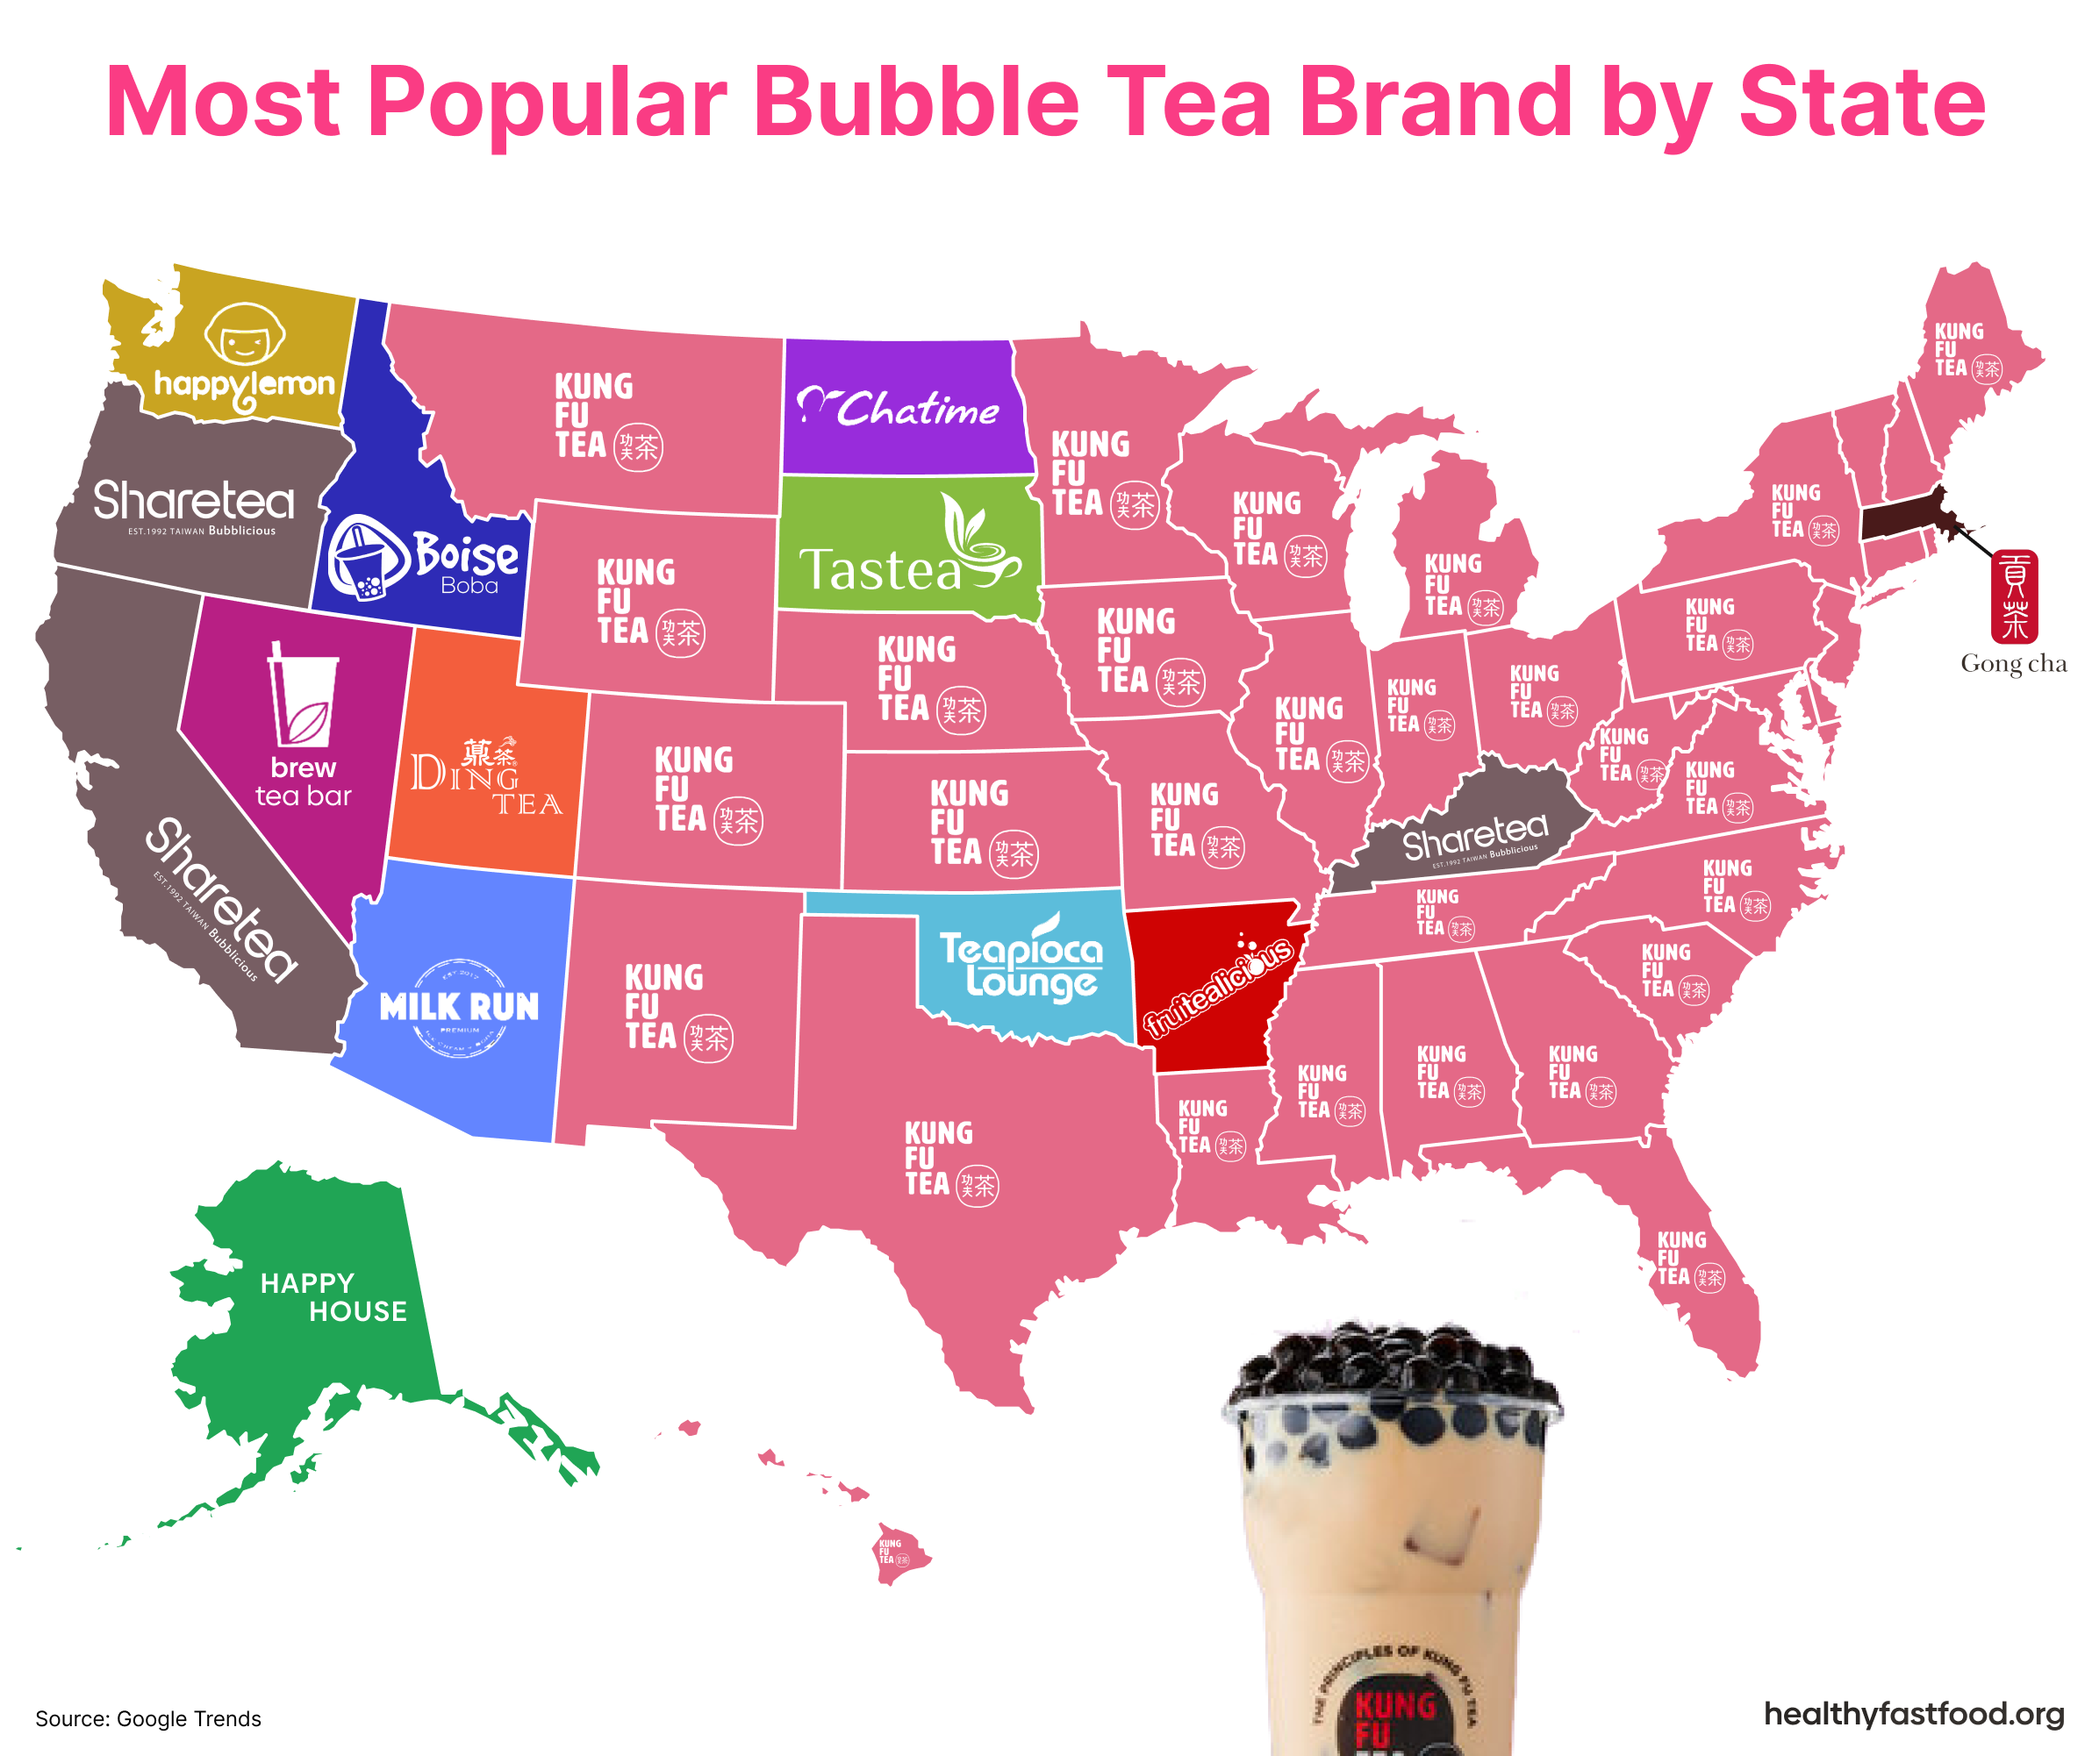
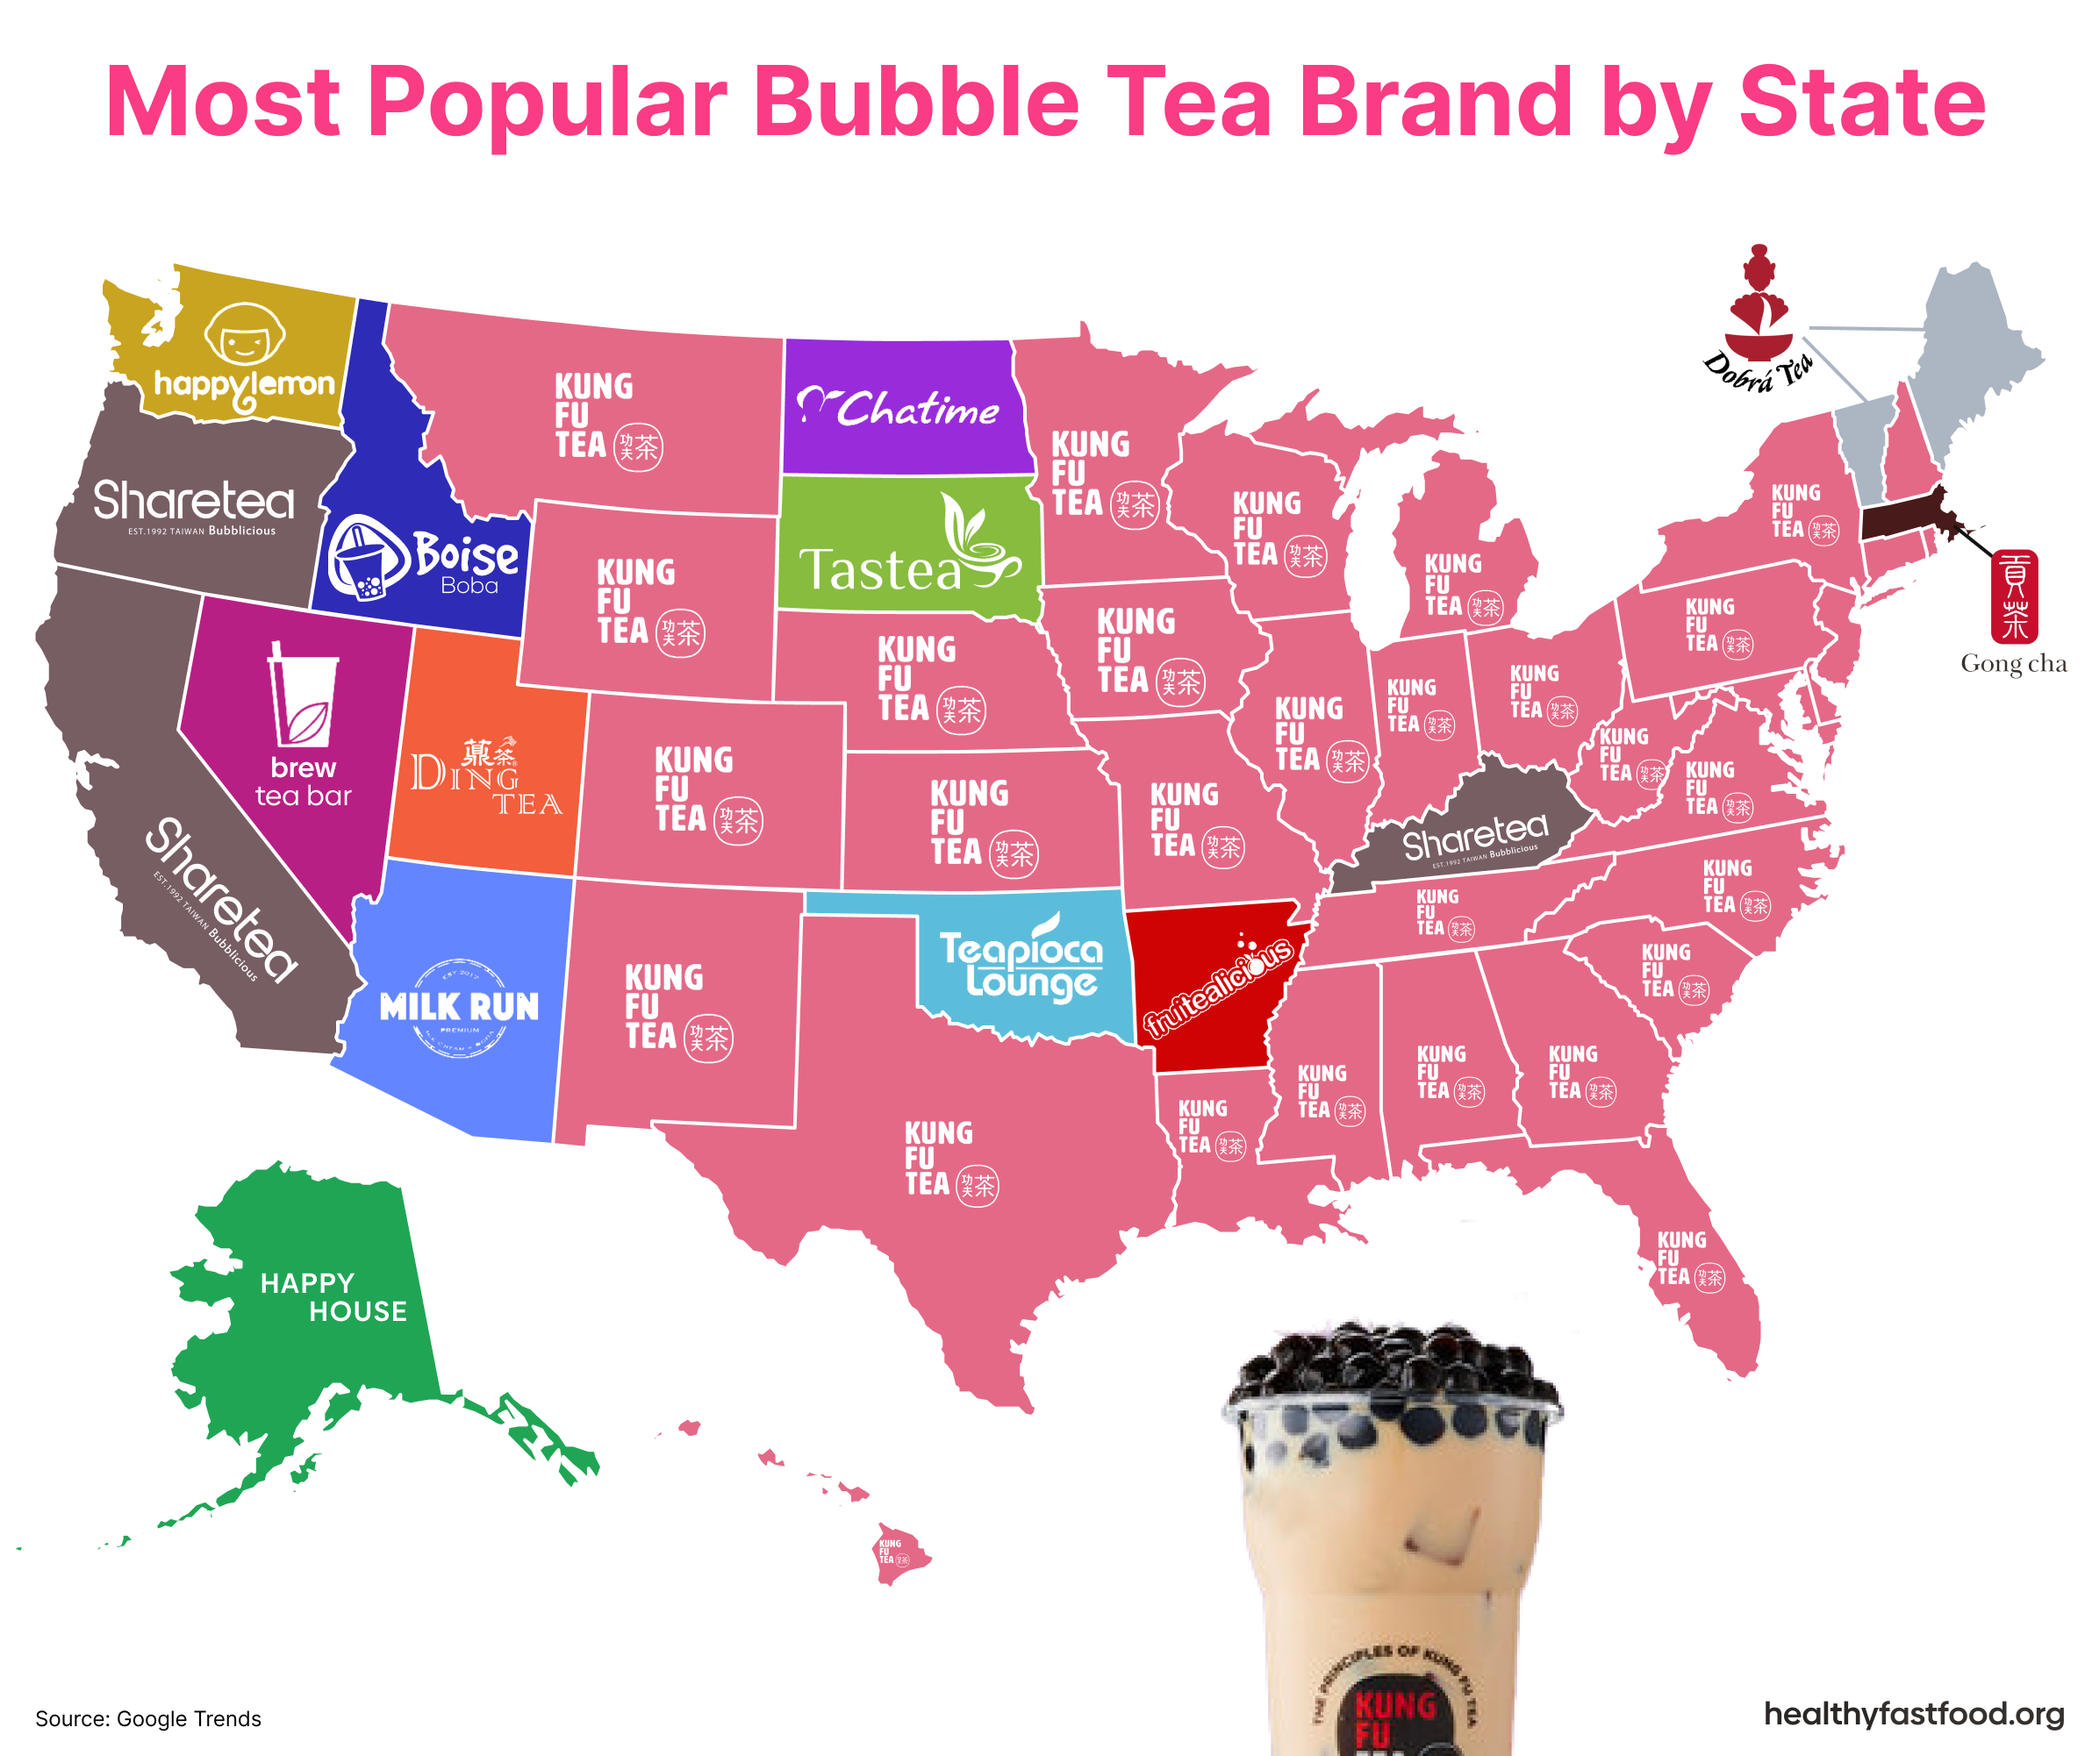
update article

Changed region(s): [[0.807, 0.1239, 0.9933, 0.2787]]

diff --git a/pages/articles/most-popular-bubble-tea-by-state.jsx b/pages/articles/most-popular-bubble-tea-by-state.jsx
@@ -199,13 +199,13 @@ SEPTEMBER 19, 2022
 
 Bubble tea has been a popular drink in Asian countries since the 80s, but has only exploded in popularity in the USA in the past 10 years. Its recent popularity is driven by [Gen Z's embrace of the drink](https://www.teaandcoffee.net/blog/29617/boba-tea-re-emerges-and-surges-in-popularity-thanks-to-gen-z/).
 
-To find out which brands are the most popular, we compared internet search volume for 50+ notable bubble tea brands. While **Kung Fu Tea**, a chain established in 2010 in Queens, NY dominates, winning 36/50 states, we discovered that smaller local shops had outsized brand recognition in their home states.
+To find out which brands are the most popular, we compared internet search volume for 50+ notable bubble tea brands. While **Kung Fu Tea**, a chain established in 2010 in Queens, NY dominates, winning 34/50 states, we discovered that smaller local shops had outsized brand recognition in their home states.
 
 ![The Most Popular Bubble Tea in every US State by HealthyFastFood.org](/images/articles/most-popular-bubble-tea-by-state/bubble-tea-state.png)
 
 ## Kung Fu Tea Dominates in the US
 
-- **Winner in: 36/50 states**
+- **Winner in: 34/50 states**
 - Founded: 2010, Queens, NY
 
 Kung Fu Tea was America's largest bubble tea brand with over 350+ locations across the U.S.
@@ -366,13 +366,23 @@ Popular Drinks: The Classic, Thai Treat
 
 ![Happy House Tea location and drinks](/images/articles/most-popular-bubble-tea-by-state/happy-house.jpg)
 
+
+## Dobrá Tea
+
+- **Winner of: Maine, Vermont**
+- Founded: 1993, Prague, Czech Republic
+
+Despite being known for its tea more than its bubble tea, Dobrá Tea takes the crown in 2 states. 
+
+Dobrá’s tearoom concept started as an underground movement in Prague during the Communism era when people would share their smuggled tea varieties with others. The idea survived for decades, and in 1993, the first Dobrá tearoom officially opened in Prague. Today, there are 30 Dobrá tea rooms in Europe and 8 in the US.
+
+Customer favorites include green tea and black tea with boba.
+
+Popular Drinks:
+
+![Dobra tea location and drinks](/images/articles/most-popular-bubble-tea-by-state/dobra-tea.jpeg)
+
 And that's the most popular boba in every state, by search volume!
-
-
-
-
-
-
 
 
 
@@ -386,11 +396,11 @@ And that's the most popular boba in every state, by search volume!
   );
 }
 
-// ## Methodology:
+## Methodology:
 
-// This graph shows the most popular Bubble Tea brand by state, as measured by Google search volume.
+This graph shows the most popular Bubble Tea brand by state, as measured by Google search volume.
 
-// Google Trends and Google Keyword Planner are used to determine relative search volume. Adobe Illustrator used for the Image above, and Chart.js is used for interactive visualization
+Google Trends and Google Keyword Planner are used to determine relative search volume. Adobe Illustrator used for the Image above, and Chart.js is used for interactive visualization
 
 // ## Limitations
 
@@ -401,17 +411,16 @@ And that's the most popular boba in every state, by search volume!
 // For example, Chatime, Gong Cha and Sharetea are nationwide brands that all rank for #2 most popular in many states, however only win the title for one state each. At first glance this makes it appear as if they have the same presence as smaller, state-level brands like Milk Run, which is only widely known in Arizona.
 
 
-// Sharetea: California, Kentucky, Oregon
-// Brew Tea Bar: Nevada
-// Milk Run: Arizona
-// Ding Tea: Utah
-// Boise Boba: Idaho
-// Chatime: North Dakota
-// Tasteas: South Dakota
-// Teapioca Lounge: Oklahoma
-// Fruitealicious: Arkansas
-// Gong Cha: Massachusetts
-// Happy House Tea: Alaska
+Sharetea: California, Kentucky, Oregon
+Brew Tea Bar: Nevada
+Milk Run: Arizona
+Ding Tea: Utah
+Boise Boba: Idaho
+Chatime: North Dakota
+Tasteas: South Dakota
+Teapioca Lounge: Oklahoma
+Fruitealicious: Arkansas
+Gong Cha: Massachusetts
+Happy House Tea: Alaska
 
-// mOO mOo tea: Hawaii 
-// Dobra Tea: Maine, Vermont
+Dobrá Tea: Maine, Vermont
